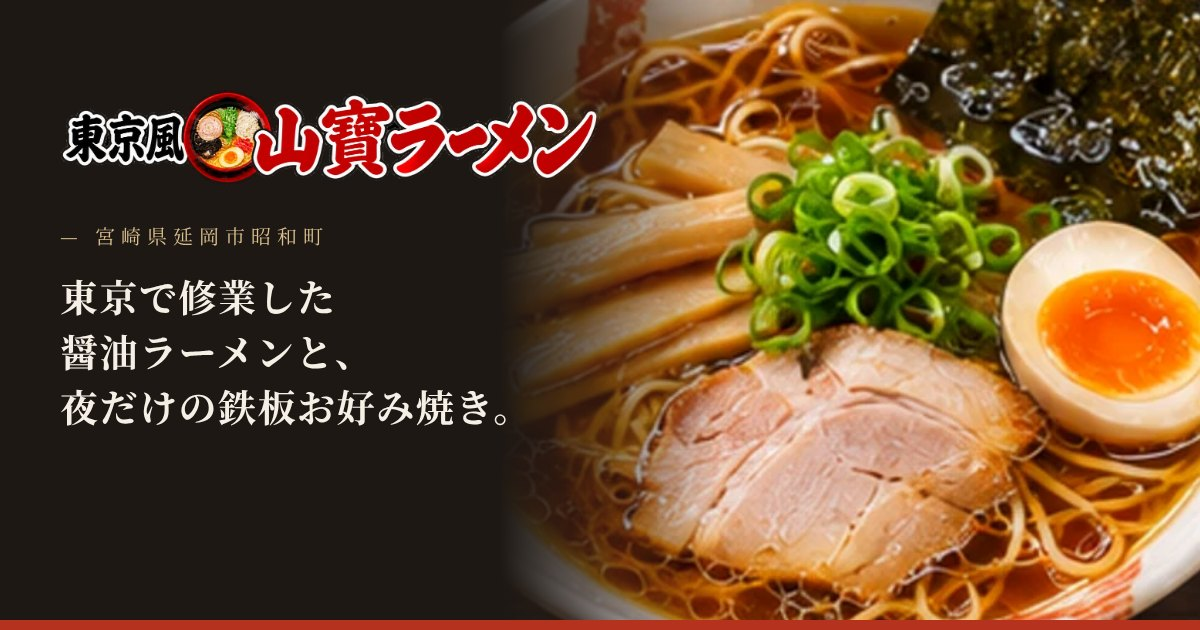
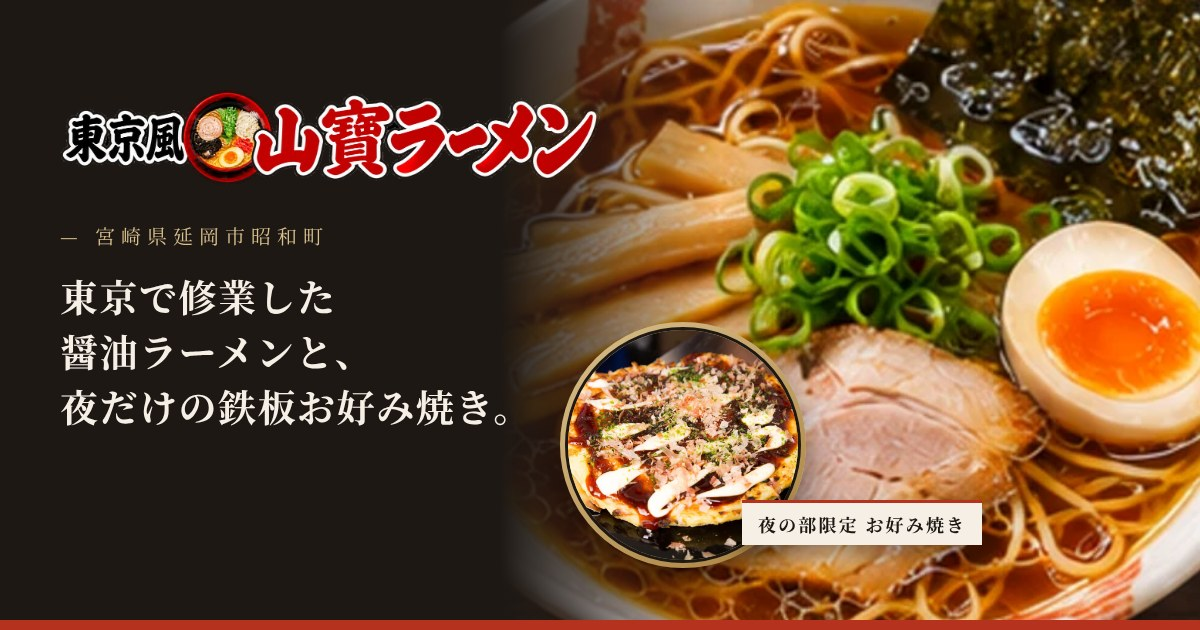
Sanpou Ramen: share preview image with okonomiyaki
Claude-Session: https://claude.ai/code/session_01YbwhK36vHnVQjbdxY7kQi6

Changed region(s): [[0.4625, 0.5127, 0.8325, 0.9651]]

diff --git a/sanpou/index.html b/sanpou/index.html
@@ -15,7 +15,7 @@
 <link rel="manifest" href="img/icon/manifest.json">
 <meta name="apple-mobile-web-app-title" content="山寶ラーメン">
 <meta name="theme-color" content="#1D1814">
-<meta property="og:image" content="https://ritan1107.github.io/mogamap/sanpou/img/og.jpg">
+<meta property="og:image" content="https://ritan1107.github.io/mogamap/sanpou/img/og.jpg?v=2">
 <meta property="og:url" content="https://ritan1107.github.io/mogamap/sanpou/">
 <meta name="twitter:card" content="summary_large_image">
 <meta name="claude:viewport-fit-sides" content="cover">
